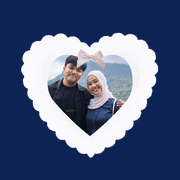
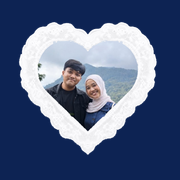
Revise heart frame to match vintage Victorian lace reference without bow in HD

Changed region(s): [[0.0833, 0.1111, 0.8611, 0.75], [0.1667, 0.3056, 0.8889, 0.8889]]

diff --git a/scripts/test_ref_frame.js b/scripts/test_ref_frame.js
@@ -1,8 +1,6 @@
 import sharp from 'sharp';
-import fs from 'fs';
-import path from 'path';
 
-async function deployAllCleanAssets() {
+async function testComposite() {
   const framePath = 'scripts/vintage_frame_raw.jpg';
   const userPhotoPath = 'C:/Users/asusa/.gemini/antigravity-ide/brain/ecd504f4-b401-4ddc-9cb8-dd37e220ef74/.user_uploaded/media_1790316203910.jpg';
 
@@ -90,7 +88,7 @@ async function deployAllCleanAssets() {
     }
   }
 
-  // 4. Crop and center the couple photo (HD):
+  // 4. Crop and center the couple photo:
   const photo = await sharp(userPhotoPath)
     .extract({ left: 245, top: 90, width: 540, height: 540 })
     .resize(w, h, { fit: 'cover' })
@@ -107,6 +105,7 @@ async function deployAllCleanAssets() {
       const pixelIndex = y * w + x;
 
       if (isOutside[pixelIndex]) {
+        // Transparent outside
         out[idx] = 0;
         out[idx + 1] = 0;
         out[idx + 2] = 0;
@@ -115,6 +114,7 @@ async function deployAllCleanAssets() {
       }
 
       if (isInside[pixelIndex]) {
+        // Inside heart: couple photo
         out[idx] = photo[idx];
         out[idx + 1] = photo[idx + 1];
         out[idx + 2] = photo[idx + 2];
@@ -130,6 +130,7 @@ async function deployAllCleanAssets() {
       const b = frameData[fidx + 2];
       const brightness = (r + g + b) / 3;
 
+      // Map brightness to luminous white / delicate silver tones (230..255)
       const laceWhite = Math.round(230 + (brightness / 255) * 25);
 
       out[idx] = laceWhite;
@@ -139,103 +140,27 @@ async function deployAllCleanAssets() {
     }
   }
 
-  // Generate Master HD Image
-  const masterHeartPath = 'public/heart_lace_hd.png';
+  // Save the master HD frame
   await sharp(out, { raw: { width: w, height: h, channels: 4 } })
     .png({ compressionLevel: 9 })
-    .toFile(masterHeartPath);
+    .toFile('test_vintage_ref_hd.png');
 
-  // Copy to heart_lace_user.png and cover/ paths
-  fs.copyFileSync(masterHeartPath, 'public/heart_lace_user.png');
-  fs.copyFileSync(masterHeartPath, 'public/cover/heart_lace.png');
-  fs.copyFileSync(masterHeartPath, 'public/cover/heart_lace_clean.png');
-  console.log('Saved public/heart_lace_hd.png, heart_lace_user.png, cover/heart_lace.png');
-
-  // Square icons with generous padding and royal blue background (#0d2353)
-  // 512x512
-  const heart512 = await sharp(masterHeartPath).resize(430, 430, { fit: 'contain', background: { r: 0, g: 0, b: 0, alpha: 0 } }).toBuffer();
+  // Preview on blue background (#0d2353)
+  const heartBuf = await sharp('test_vintage_ref_hd.png').toBuffer();
   await sharp({
     create: {
-      width: 512,
-      height: 512,
+      width: 1100,
+      height: 1100,
       channels: 4,
-      background: { r: 13, g: 35, b: 83, alpha: 1 }
+      background: { r: 13, g: 35, b: 83, alpha: 1 } // #0d2353
     }
   })
-  .composite([{ input: heart512, gravity: 'center' }])
+  .composite([{ input: heartBuf, gravity: 'center' }])
   .png()
-  .toFile('public/icon-512.png');
+  .toFile('test_vintage_preview_blue.png');
 
-  // 192x192
-  const heart192 = await sharp(masterHeartPath).resize(162, 162, { fit: 'contain', background: { r: 0, g: 0, b: 0, alpha: 0 } }).toBuffer();
-  await sharp({
-    create: {
-      width: 192,
-      height: 192,
-      channels: 4,
-      background: { r: 13, g: 35, b: 83, alpha: 1 }
-    }
-  })
-  .composite([{ input: heart192, gravity: 'center' }])
-  .png()
-  .toFile('public/icon-192.png');
-
-  // apple-touch-icon.png (180x180)
-  const heart180 = await sharp(masterHeartPath).resize(152, 152, { fit: 'contain', background: { r: 0, g: 0, b: 0, alpha: 0 } }).toBuffer();
-  await sharp({
-    create: {
-      width: 180,
-      height: 180,
-      channels: 4,
-      background: { r: 13, g: 35, b: 83, alpha: 1 }
-    }
-  })
-  .composite([{ input: heart180, gravity: 'center' }])
-  .png()
-  .toFile('public/apple-touch-icon.png');
-
-  // icon.png (512x512)
-  fs.copyFileSync('public/icon-512.png', 'public/icon.png');
-
-  // Generate og-image.png (1200x630) for link preview with royal blue gradient and typography
-  const heartOg = await sharp(masterHeartPath).resize(480, 480, { fit: 'contain', background: { r: 0, g: 0, b: 0, alpha: 0 } }).toBuffer();
-  
-  const textSvg = `
-    <svg width="1200" height="630" viewBox="0 0 1200 630">
-      <defs>
-        <linearGradient id="bg" x1="0%" y1="0%" x2="100%" y2="100%">
-          <stop offset="0%" stop-color="#07142e" />
-          <stop offset="50%" stop-color="#0c2354" />
-          <stop offset="100%" stop-color="#081836" />
-        </linearGradient>
-      </defs>
-      <rect width="1200" height="630" fill="url(#bg)" />
-      
-      <!-- Sparkles / stars -->
-      <polygon points="120,90 123,98 131,101 123,104 120,112 117,104 109,101 117,98" fill="#ffd700" opacity="0.8" />
-      <polygon points="480,140 482,146 488,148 482,150 480,156 478,150 472,148 478,146" fill="#ffffff" opacity="0.8" />
-      <polygon points="180,500 182,506 188,508 182,510 180,516 178,510 172,508 178,506" fill="#ffd700" opacity="0.8" />
-      <polygon points="1100,100 1102,106 1108,108 1102,110 1100,116 1098,110 1092,108 1098,106" fill="#ffffff" opacity="0.8" />
-      <polygon points="1060,520 1063,528 1071,531 1063,534 1060,542 1057,534 1049,531 1057,528" fill="#ffd700" opacity="0.8" />
-
-      <!-- Left Text -->
-      <text x="110" y="240" font-family="'Outfit', -apple-system, sans-serif" font-weight="800" font-size="64" fill="#ffffff" letter-spacing="-1">Happy Birthday,</text>
-      <text x="110" y="325" font-family="'Outfit', -apple-system, sans-serif" font-weight="900" font-size="76" fill="#fcd34d" letter-spacing="-1">My Love Ryan!</text>
-      <text x="110" y="405" font-family="'Playfair Display', Georgia, serif" font-style="italic" font-size="34" fill="#93c5fd">A special gift for a very special person ✨</text>
-    </svg>
-  `;
-
-  await sharp(Buffer.from(textSvg))
-    .composite([{
-      input: heartOg,
-      left: 680,
-      top: 75
-    }])
-    .png()
-    .toFile('public/og-image.png');
-
-  console.log('All public assets successfully created & deployed!');
+  console.log('Saved test_vintage_ref_hd.png and test_vintage_preview_blue.png successfully');
 }
 
-deployAllCleanAssets();
+testComposite();
 

diff --git a/index.html b/index.html
@@ -9,8 +9,8 @@
     <meta property="og:type" content="website">
     <meta property="og:title" content="Special Birthday Gift - For My Darling ❤">
     <meta property="og:description" content="Special gift for special person. Happy Birthday! ❤">
-    <meta property="og:image" content="/og-image.png">
-    <meta property="og:image:secure_url" content="/og-image.png">
+    <meta property="og:image" content="/og-image.png?v=vintage_ref">
+    <meta property="og:image:secure_url" content="/og-image.png?v=vintage_ref">
     <meta property="og:image:type" content="image/png">
     <meta property="og:image:width" content="1200">
     <meta property="og:image:height" content="630">
@@ -20,7 +20,7 @@
     <meta name="twitter:card" content="summary_large_image">
     <meta name="twitter:title" content="Special Birthday Gift - For My Darling ❤">
     <meta name="twitter:description" content="Special gift for special person. Happy Birthday! ❤">
-    <meta name="twitter:image" content="/og-image.png">
+    <meta name="twitter:image" content="/og-image.png?v=vintage_ref">
 
     <!-- PWA & Mobile Meta Tags -->
     <link rel="manifest" href="/manifest.webmanifest">
@@ -29,9 +29,9 @@
     <meta name="apple-mobile-web-app-capable" content="yes">
     <meta name="apple-mobile-web-app-status-bar-style" content="black-translucent">
     <meta name="apple-mobile-web-app-title" content="Birthday Gift">
-    <link rel="icon" type="image/png" sizes="192x192" href="/icon-192.png">
-    <link rel="icon" type="image/png" sizes="512x512" href="/icon-512.png">
-    <link rel="apple-touch-icon" sizes="180x180" href="/apple-touch-icon.png">
+    <link rel="icon" type="image/png" sizes="192x192" href="/icon-192.png?v=vintage_ref">
+    <link rel="icon" type="image/png" sizes="512x512" href="/icon-512.png?v=vintage_ref">
+    <link rel="apple-touch-icon" sizes="180x180" href="/apple-touch-icon.png?v=vintage_ref">
     
     <!-- Google Fonts -->
     <link rel="preconnect" href="https://fonts.googleapis.com">

diff --git a/special_birthday_gift.html b/special_birthday_gift.html
@@ -529,7 +529,7 @@
         <!-- ============================================== -->
         <div class="cover-heart-section">
             <div class="cover-heart-box">
-                <img src="heart_lace_hd.png" onerror="this.src='couple_main.jpg'" alt="Our Sweet Memory" style="width: 100%; height: 100%; object-fit: contain;">
+                <img src="heart_lace_hd.png?v=vintage_ref" onerror="this.src='couple_main.jpg'" alt="Our Sweet Memory" style="width: 100%; height: 100%; object-fit: contain;">
             </div>
 
             <!-- Sparkling Soft-Blue & Gold Stars beside Heart (NO PINK) -->

diff --git a/src/components/ScreenLanding.jsx b/src/components/ScreenLanding.jsx
@@ -186,7 +186,7 @@ export default function ScreenLanding({ onNext, config }) {
         >
           {!photoError ? (
             <img
-              src="/heart_lace_hd.png"
+              src="/heart_lace_hd.png?v=vintage_ref"
               alt="Our Sweet Memory"
               onError={() => setPhotoError(true)}
               style={{
